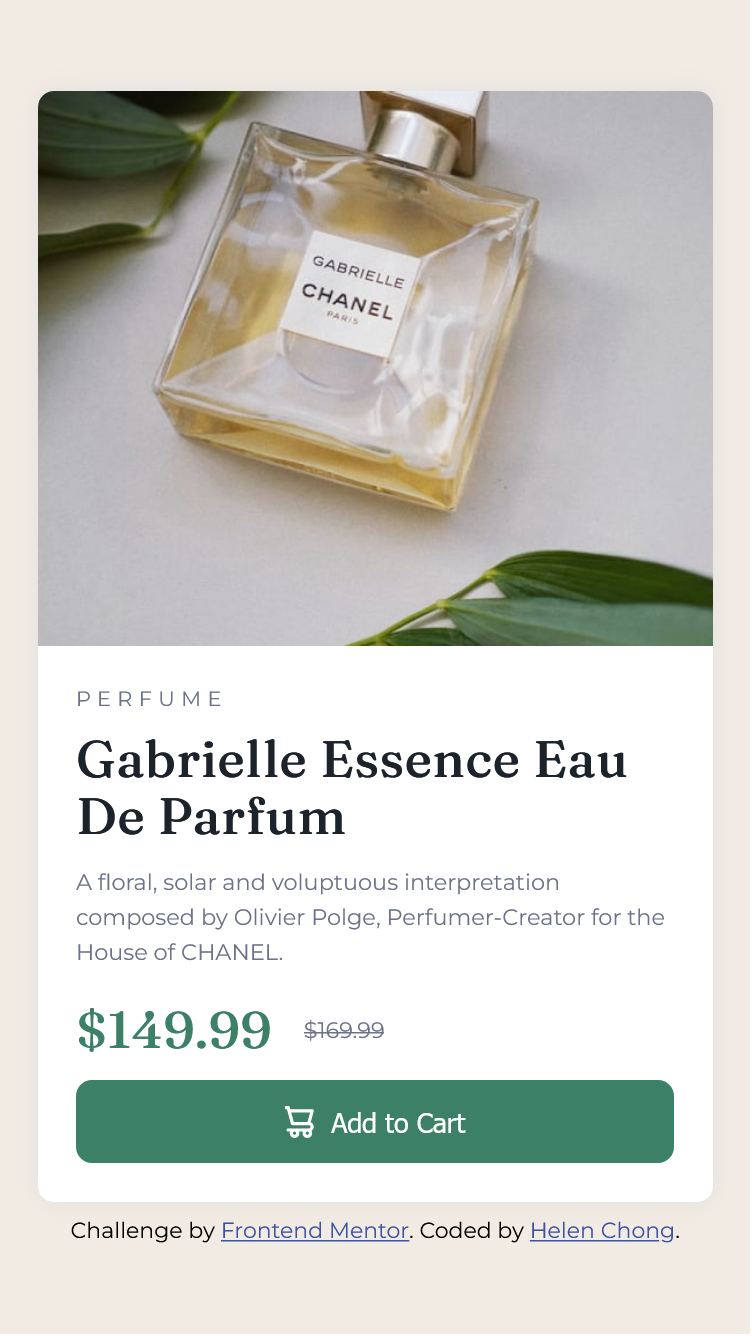
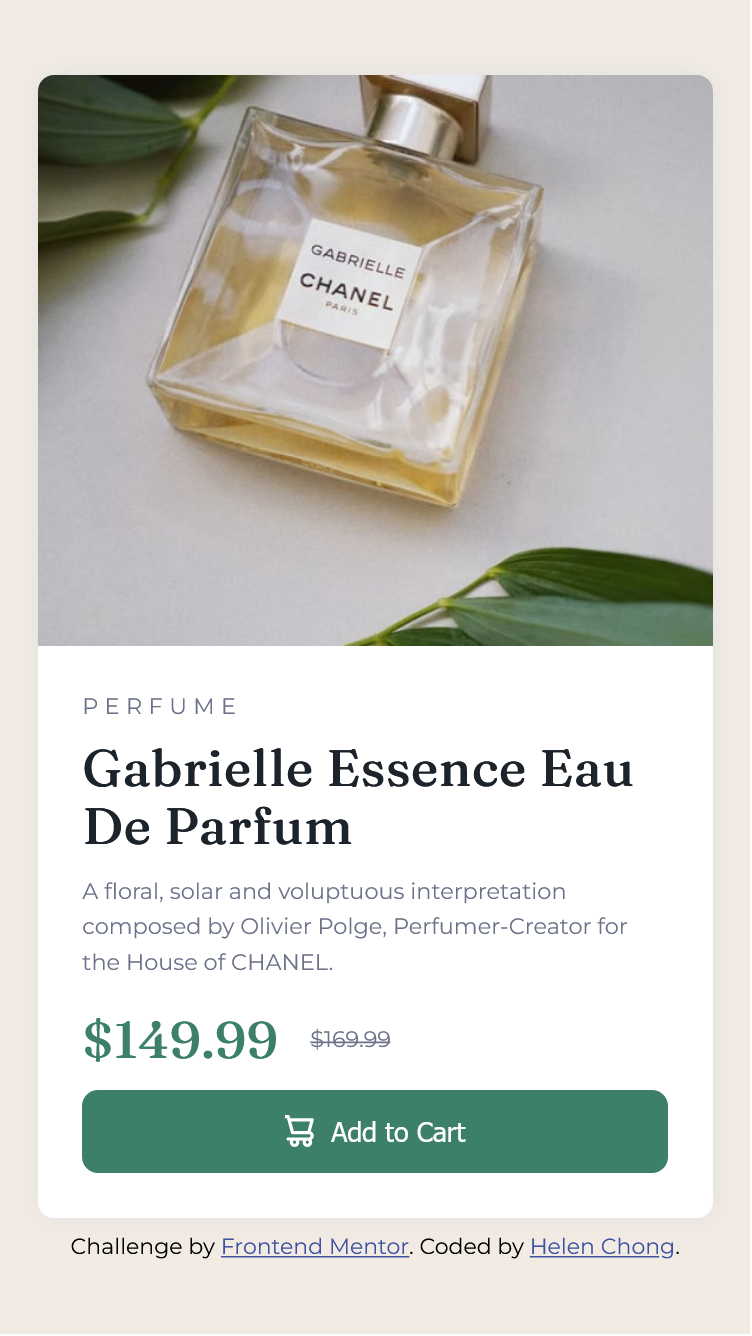
Layout Tweaks to improve accessibility

diff --git a/product-preview-card-component/index.html b/product-preview-card-component/index.html
@@ -1,4 +1,4 @@
-<!DOCTYPE html>sectionarticle
+<!DOCTYPE html>
 <html lang="en">
     <head>
         <meta charset="UTF-8">
@@ -16,7 +16,7 @@
             <div class="product-container">
                 <picture>
                     <source media="(min-width: 480px)" srcset="./images/image-product-desktop.jpg">
-                    <img src="./images/image-product-mobile.jpg" alt="Product image">
+                    <img src="./images/image-product-mobile.jpg" alt="Photo of a perfume with the label Gabrielle Chanel">
                 </picture> 
 
                 <div class="product-info">
@@ -27,7 +27,7 @@
                         Perfumer-Creator for the House of CHANEL.
                     </p>
                     <div class="price-info">
-                        <h1 class="new-price">$149.99</h1>
+                        <h2 class="new-price">$149.99</h2>
                         <p class="og-price">$169.99</p>
                     </div>
                     <button class="add-cart-btn">

diff --git a/product-preview-card-component/index.css b/product-preview-card-component/index.css
@@ -25,7 +25,7 @@ body {
     flex-direction: column;
 }
 
-h1 {
+h1, h2 {
     font-family: 'Fraunces', Times, serif;
     font-weight: 700;
     font-size: 1.6rem;
@@ -66,7 +66,7 @@ picture img {
     flex-direction: column;
     justify-content: space-evenly;
     max-width: 100%;
-    padding: 1.2rem;
+    padding: 1.4rem;
 }
 
 .product-desc {
@@ -82,7 +82,7 @@ picture img {
 .product-category {
     text-transform: uppercase;
     letter-spacing: 0.2rem;
-    font-size: 0.65rem;
+    font-size: 0.7rem;
 }
 
 .product-name {
@@ -148,7 +148,7 @@ picture img {
     }
 
     .product-info {
-		padding: 0 1.5rem;
+		padding: 0.4rem 1.5rem;
     }
 
     .product-category, .product-name, .price-info {
